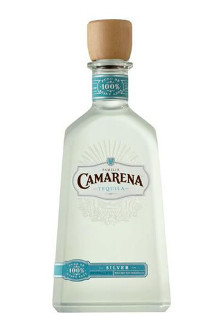
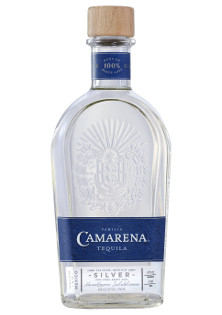
Updated to use Cloudfront instead of S3 endpoints Updated RumHaven and Camarena images Delted unneeded images

Changed region(s): [[0.2162, 0.0, 0.7838, 1.0]]

diff --git a/src/Components/Contenders/Contender.js b/src/Components/Contenders/Contender.js
@@ -15,7 +15,7 @@ export default class Contendor extends Component {
                 <div className="entry-header">
                     <div className="entry-thumbnail">
                     <a target="_blank" rel="noopener noreferrer" href={this.props.data.web + "?utm_source=charleston_pride&utm_medium=toast_to_equality&utm_campaign=sponsors"}>
-                    <img src={"https://s3.amazonaws.com/charlestonpride.assets/toast/contenders/" +this.props.data.logo} alt={this.props.data.name + " logo"} width="250px" height="250px" /></a>
+                    <img src={"https://d2f908d3j7stzr.cloudfront.net/toast/contenders/" +this.props.data.logo} alt={this.props.data.name + " logo"} width="250px" height="250px" /></a>
                     </div>
                 </div>
                 <div className="entry-content">

diff --git a/src/Components/Sponsors/Sponsor.js b/src/Components/Sponsors/Sponsor.js
@@ -6,7 +6,7 @@ export default class Sponsor extends Component {
   render() {
     return (
         <div className="sponsor">
-            <img src={"https://s3.amazonaws.com/charlestonpride.assets/toast/sponsors/" + this.props.data.image} alt={this.props.data.name + " logo"} width="300px" height="200px" />
+            <img src={"https://d2f908d3j7stzr.cloudfront.net/toast/sponsors/" + this.props.data.image} alt={this.props.data.name + " logo"} width="300px" height="200px" />
             <p className="font-pacifico">{this.props.data.level + " Sponsor"}</p>
             <SocialList facebook={this.props.data.facebook} instagram={this.props.data.instagram} twitter={this.props.data.twitter} web={this.props.data.web} />
         </div>
